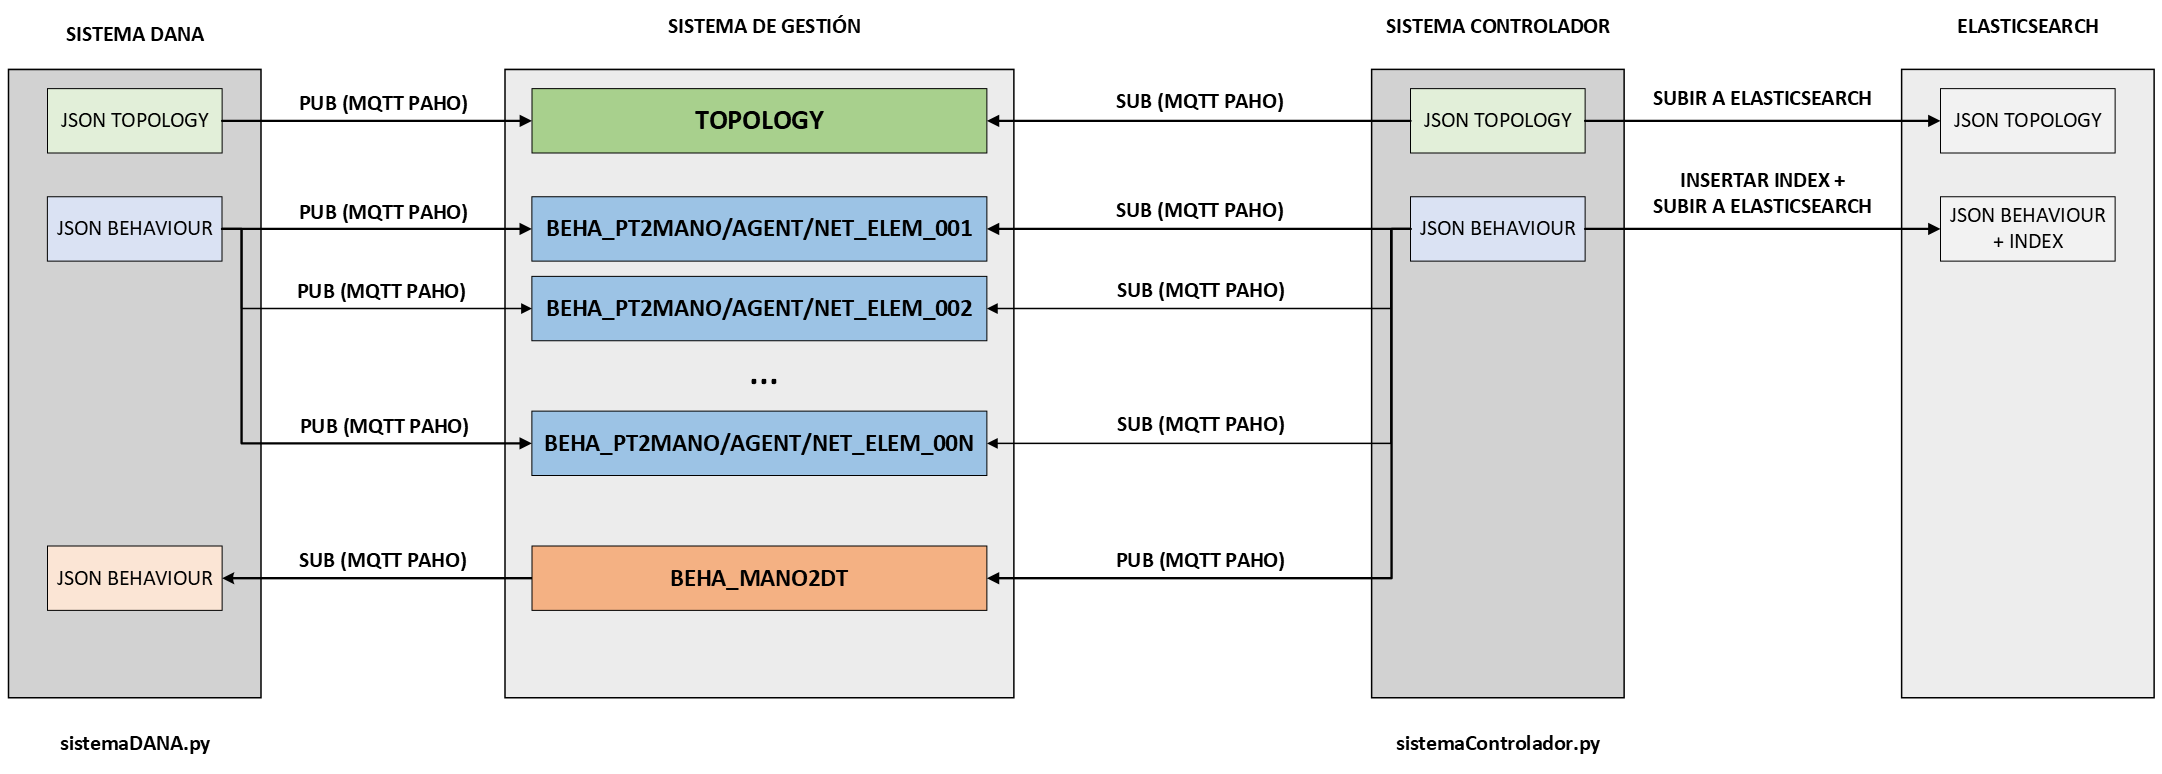
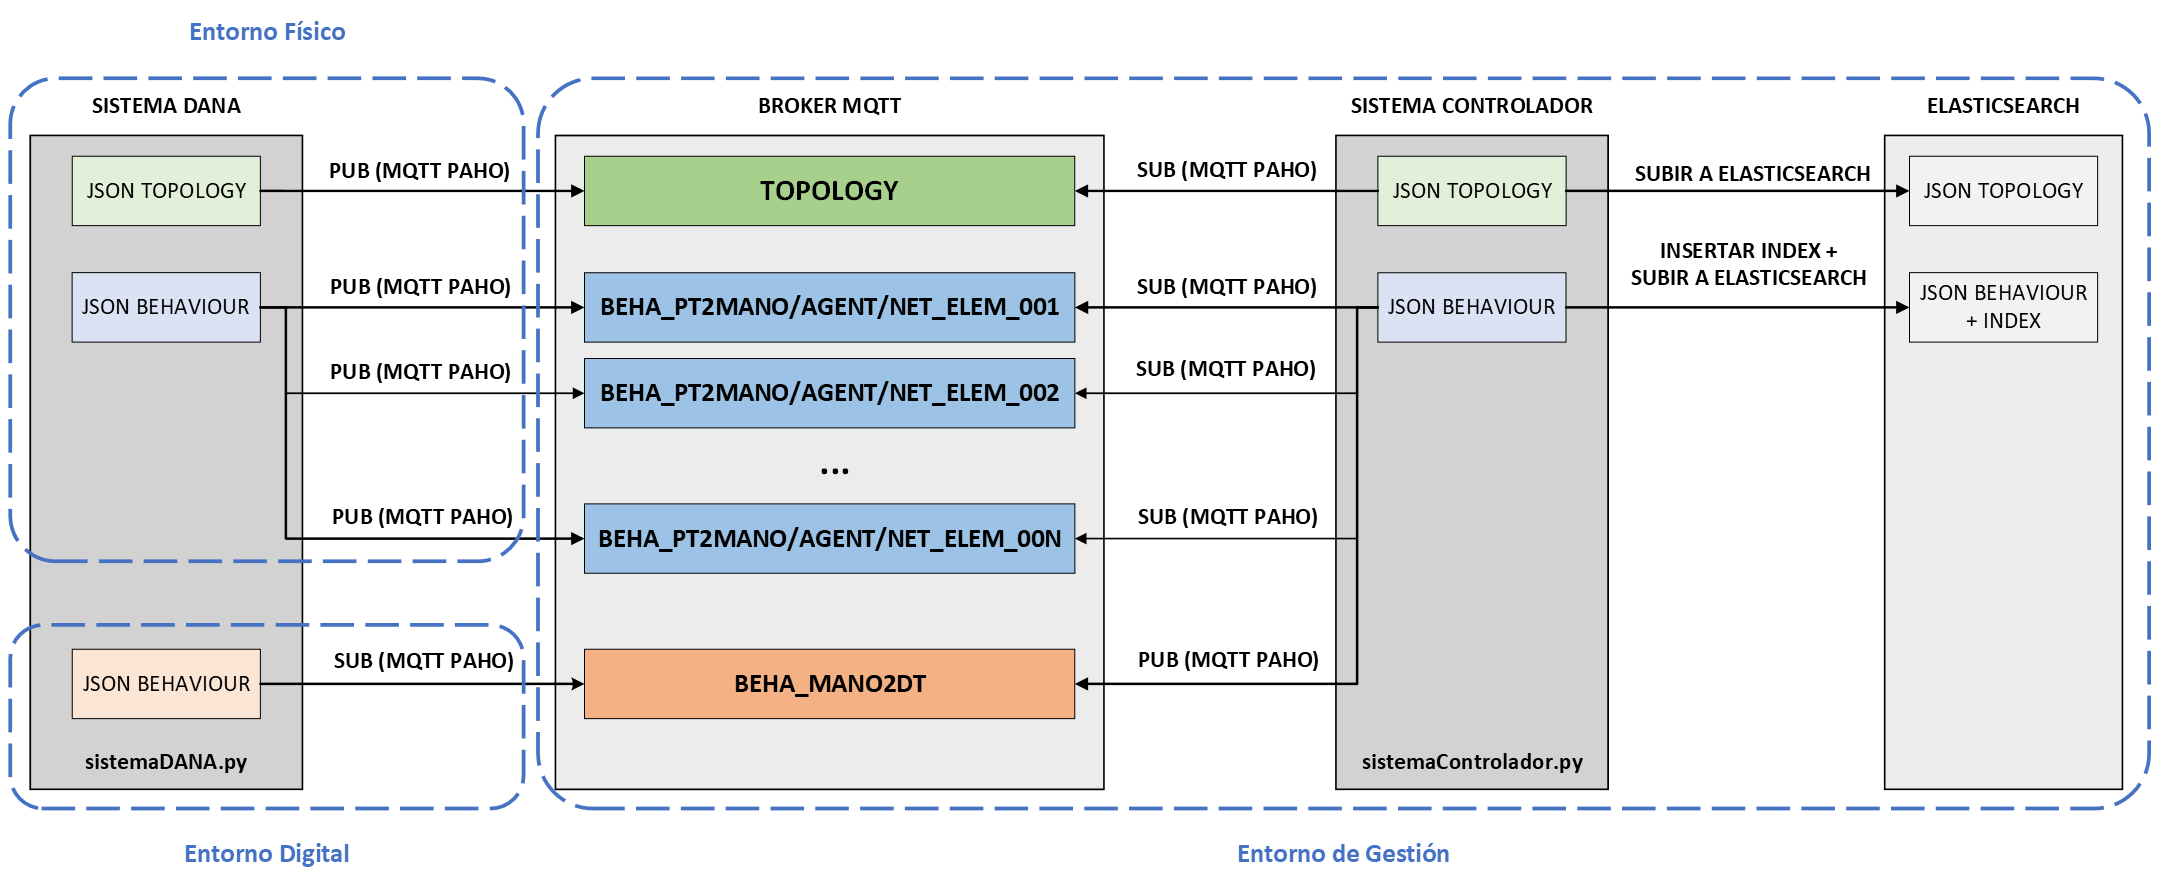
readme

Changed region(s): [[0.0, 0.0, 1.0, 0.9922]]

diff --git a/README.md b/README.md
@@ -1,23 +1,22 @@
 # Escenario para la comunicación entre el Physical Twin (PT) y el Digital Twin (DT)
 ## Introducción
 <div align="justify">
-El despliegue de este escenario está formado por tres sistemas: sistema DANA, sistema controlador y sistema de gestión. 
+El despliegue de este escenario está formado por dos sistemas: sistema DANA y sistema controlador.
 
 **Componentes del repositorio:**
 1. **Directorio de gestión:** tfg-digital-twins/mgmt
-    - **json configuración sistema monitorización:** tfg-digital-twins/mgmt/mgmt.json
+    - **JSON configuración sistema monitorización:** tfg-digital-twins/mgmt/mgmt.json
 2. **Directorio de topología:** tfg-digital-twins/topology
-    - **jsons datos topología:** tfg-digital-twins/topology/TOPO_*.json
+    - **JSONs datos topología:** tfg-digital-twins/topology/TOPO_*.json
+    - **Plantilla JSONs de topología:** tfg-digital-twins/topology/message.json
 3. **Directorio de comportamiento:** tfg-digital-twins/behaviour
-    - **jsons datos comportamiento:** tfg-digital-twins/behaviour/BEHA_*.json
+    - **JSONs datos comportamiento:** tfg-digital-twins/behaviour/BEHA_*.json
+    - **Script bash generador de JSONs:** tfg-digital-twins/behaviour/generador_json_behaviour.sh
 4. **Fichero de configuración:** config.json
 5. **Fichero de requerimientos:** requirements.txt
 6. **Script de python del sistema DANA:** sistemaDANA.py
 7. **Script de python del sistema Controlador:** sistemaControlador.py
 
-En el directorio de gestión se encuentra almacenado el fichero json de configuración del sistema de monitorización, y en los directorios de topología y comportamiento, se almacenan los ficheros json que contienen los datos de topología y comportamiento, respectivamente.
-
-El escenario cuenta con un archivo de configuración (config.json) en el que se definen campos como el path de los JSON de topología, el path de los JSON de comportamiento, la IP del Broker MQTT, el puerto MQTT a utilizar, entre otros valores necesarios. También dispone de un archivo de requerimientos (requirements.txt), utilizado para especificar las dependencias del proyecto, y por último de dos scripts de Python (sistemaDANA.py y sistemaControlador.py).
 </div>
 
 ### Descripción del escenario
@@ -32,31 +31,10 @@ En el despligue de este escenario se contemplan dos estados principales:
 - **Estado 1:** Monitorización del path de comportamiento y generación de los jsons de datos
 </div>
 
-
-**Sistema de gestión**
-
-<div align="justify">
-En el contexto de este escenario, el "sistema de gestión" se refiere a un conjunto de componentes y contenedores Docker que se encargan de coordinar y gestionar las operaciones de los sistemas desplegados, así como de administrar los servicios y recursos necesarios para su adecuado funcionamiento. Este sistema se encarga de asegurar que todos los componentes del escenario estén configurados y operativos según las necesidades del proyecto.
-
-El sistema de gestión incluye:
-
-**- Mosquitto MQTT (broker MQTT):** Este servicio actúa como el broker MQTT para la comunicación entre los distintos elementos del sistema, permitiendo la transferencia de mensajes y datos entre ellos. Se configura con el puerto 1883 y sin utilizar SSL/TLS.
-
-**- Elasticsearch:** Funciona como un motor de búsqueda y análisis de datos distribuido, encargado de almacenar y procesar grandes volúmenes de datos generados por el sistema. Se configura con el puerto 9200 y sin utilizar SSL/TLS.
-
-**- Kibana:** Es una plataforma de visualización y análisis de datos que se integra con Elasticsearch, permitiendo explorar y visualizar los datos almacenados en Elasticsearch a través de paneles interactivos y gráficos. Se configura con el puerto 5601 y sin utilizar SSL/TLS.
-
-Tal y como se ha comentado previamente, el sistema de gestión también incluye un archivo llamado "mgmt.json" ubicado en el directorio "tfg-digital-twins/mgmt". Este archivo contiene información crítica sobre la configuración del sistema, incluido el estado actual del agente y la configuración de los servicios Mosquitto MQTT, Elasticsearch y Kibana.
-
-En conjunto, el sistema de gestión asegura la correcta operación y gestión efectiva del entorno desplegado, proporcionando los servicios necesarios para la comunicación, almacenamiento y visualización de datos en el sistema.
-</div>
-
-
-
 **Sistema DANA**
 
 <div align="justify">
-El Sistema DANA es una herramienta diseñada para la emulación del comportamiento de un sistema en el Gemelo Físico (PT).
+El sistema DANA ha sido diseñado para operar tanto en el entorno del PT como en el entorno del DT, garantizando una versatilidad esencial para la implementación y gestión de gemelos digitales. 
 
 El sistema hace uso de la biblioteca watchdog, que se encarga de monitorizar los paths definidos en el archivo de configuración. Nada más comenzar el despligue del escenario, se inicializa por defecto el estado del agente a 0, por lo tanto se comienza con la monitorización del directorio de gestión y de topología. 
 
@@ -68,11 +46,22 @@ Una vez finalizada la publicación del json, se produce un cambio de estado (est
 </div>
 
 
-
-**Sistema Controlador**
+**Sistema de gestión de red**
 
 <div align="justify">
-El Sistema Controlador trabaja junto al broker MQTT, la base de datos ElasticSearch y el visualizador Kibana, encargándose de procesar la topología de la red y los datos de comportamiento, así como de gestionar la comunicación entre el Gemelo Físico y el Gemelo Digital.
+En el contexto de este escenario, el sistema de gestión de red (NMS) es el encargado de la comunicación entre el agente de cada gemelo, actuando como intermediario entre ambos. Este sistema segura la correcta operación y gestión efectiva del entorno desplegado, proporcionando los servicios necesarios para la comunicación, almacenamiento y visualización de datos en el sistema. 
+
+Tal y como se ha comentado previamente, el sistema de gestión también incluye un archivo llamado "mgmt.json" ubicado en el directorio "tfg-digital-twins/mgmt". Este archivo contiene información crítica sobre la configuración del sistema, incluido el estado actual del agente y la configuración de los servicios Mosquitto MQTT, Elasticsearch y Kibana.
+
+Este sistema está formado por los siguientes componentes:
+
+**- Mosquitto MQTT (broker MQTT):** Este servicio actúa como el broker MQTT para la comunicación entre los distintos elementos del sistema, permitiendo la transferencia de mensajes y datos entre ellos. Se configura con el puerto 1883 y sin utilizar SSL/TLS.
+
+**- Elasticsearch:** Funciona como un motor de búsqueda y análisis de datos distribuido, encargado de almacenar y procesar grandes volúmenes de datos generados por el sistema. Se configura con el puerto 9200 y sin utilizar SSL/TLS.
+
+**- Kibana:** Es una plataforma de visualización y análisis de datos que se integra con Elasticsearch, permitiendo explorar y visualizar los datos almacenados en Elasticsearch a través de paneles interactivos y gráficos. Se configura con el puerto 5601 y sin utilizar SSL/TLS.
+
+**- Sistema Controlador:** El sistema Controlador trabaja junto al broker MQTT, la base de datos ElasticSearch y el visualizador Kibana, encargándose de procesar la topología de la red y los datos de comportamiento, así como de gestionar la comunicación entre el Gemelo Físico y el Gemelo Digital.
 
 Este sistema utiliza el mismo fichero de configuración que el sistema DANA, para definir parámetros como la ubicación de los archivos JSON de topología y comportamiento, la dirección IP y el puerto del Broker MQTT, entre otros. Nada más iniciar la ejecución, el controlador se suscribe al topic "TOPOLOGY" mediante el cliente MQTT de Paho. 
 
@@ -84,7 +73,7 @@ Cuando el sistema detecta que se ha recibido un archivo json de datos de comport
 
 Una vez se han insertado los datos en elasticsearch, se publica el json original recibido en el topic BEHA_MANO2DT/AGENT/NET_ELEM_XXX, de acuerdo a una acción condicionada, como el modo de funcionamiento establecido en el fichero de configuración o una solicitud de confirmación del operador.
 
-El Sistema Controlador permite la comunicación bidireccional entre el Gemelo Físico y el Gemelo Digital, facilitando la sincronización de datos y el intercambio de información en tiempo real.
+El sistema Controlador permite la comunicación bidireccional entre el Gemelo Físico y el Gemelo Digital, facilitando la sincronización de datos y el intercambio de información en tiempo real.
 </div>
 
 
